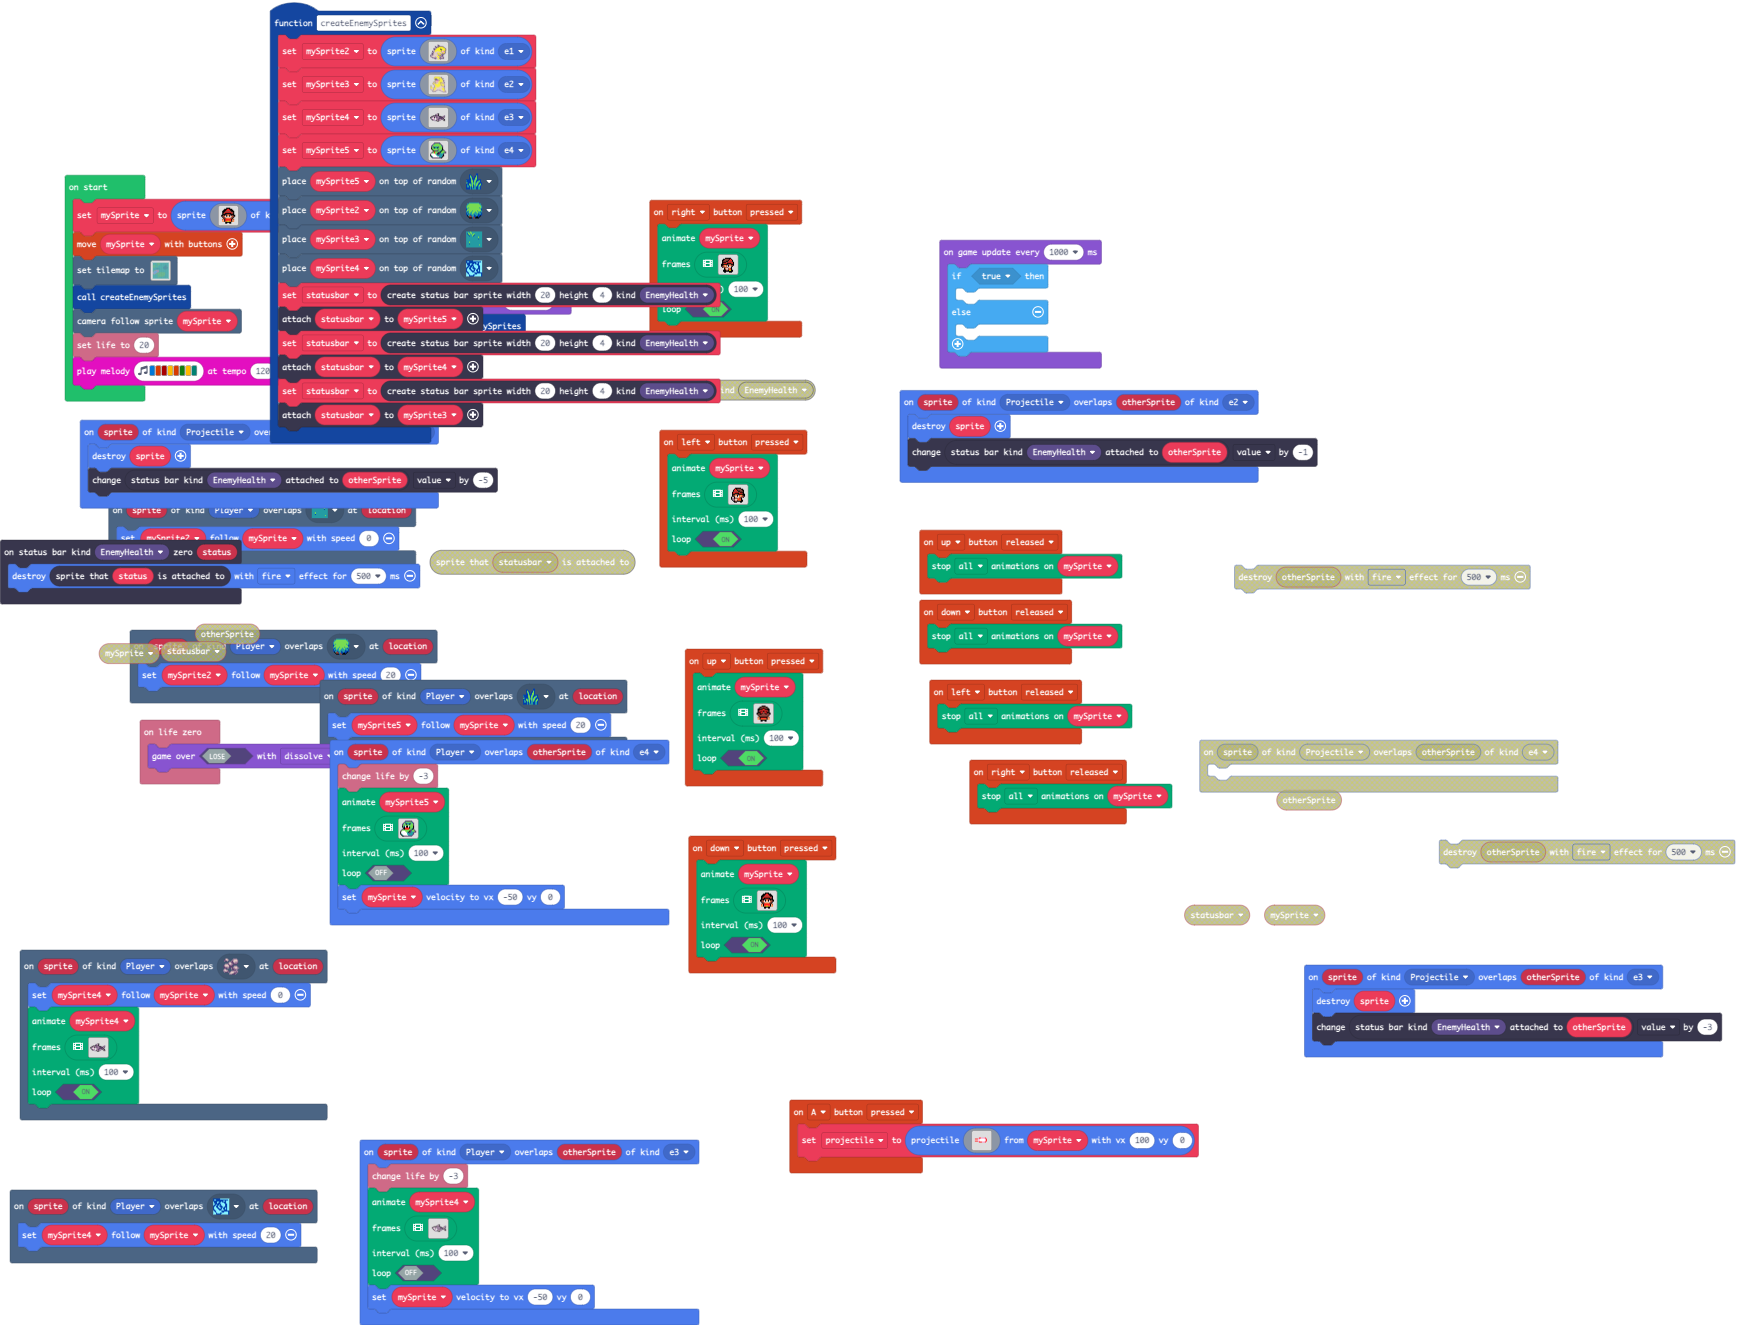
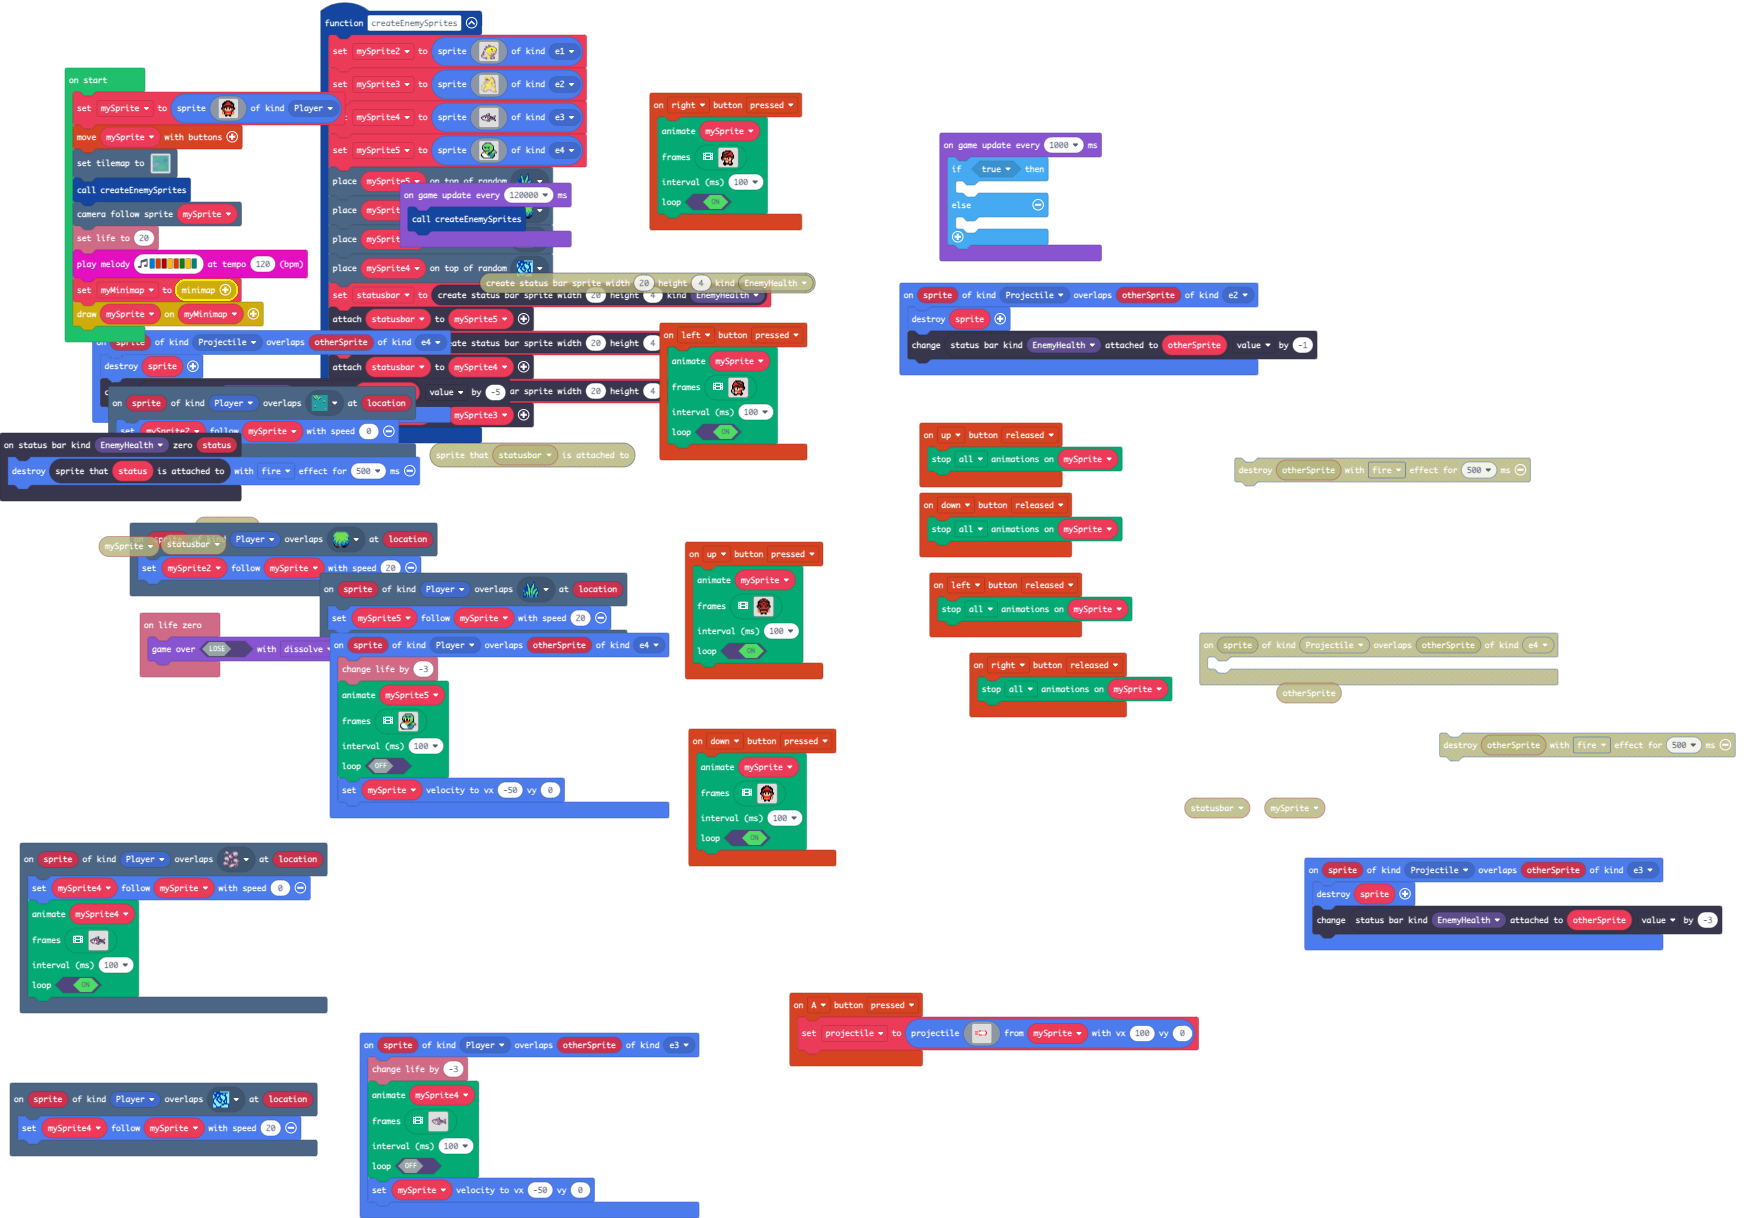
Update pxt.json, main.blocks, main.ts

diff --git a/main.ts b/main.ts
@@ -855,6 +855,8 @@ createEnemySprites()
 scene.cameraFollowSprite(mySprite)
 info.setLife(20)
 music.playMelody("E B C5 A B G A F ", 120)
+let myMinimap = minimap.minimap()
+minimap.includeSprite(myMinimap, mySprite)
 game.onUpdateInterval(1000, function () {
     if (true) {
     	
